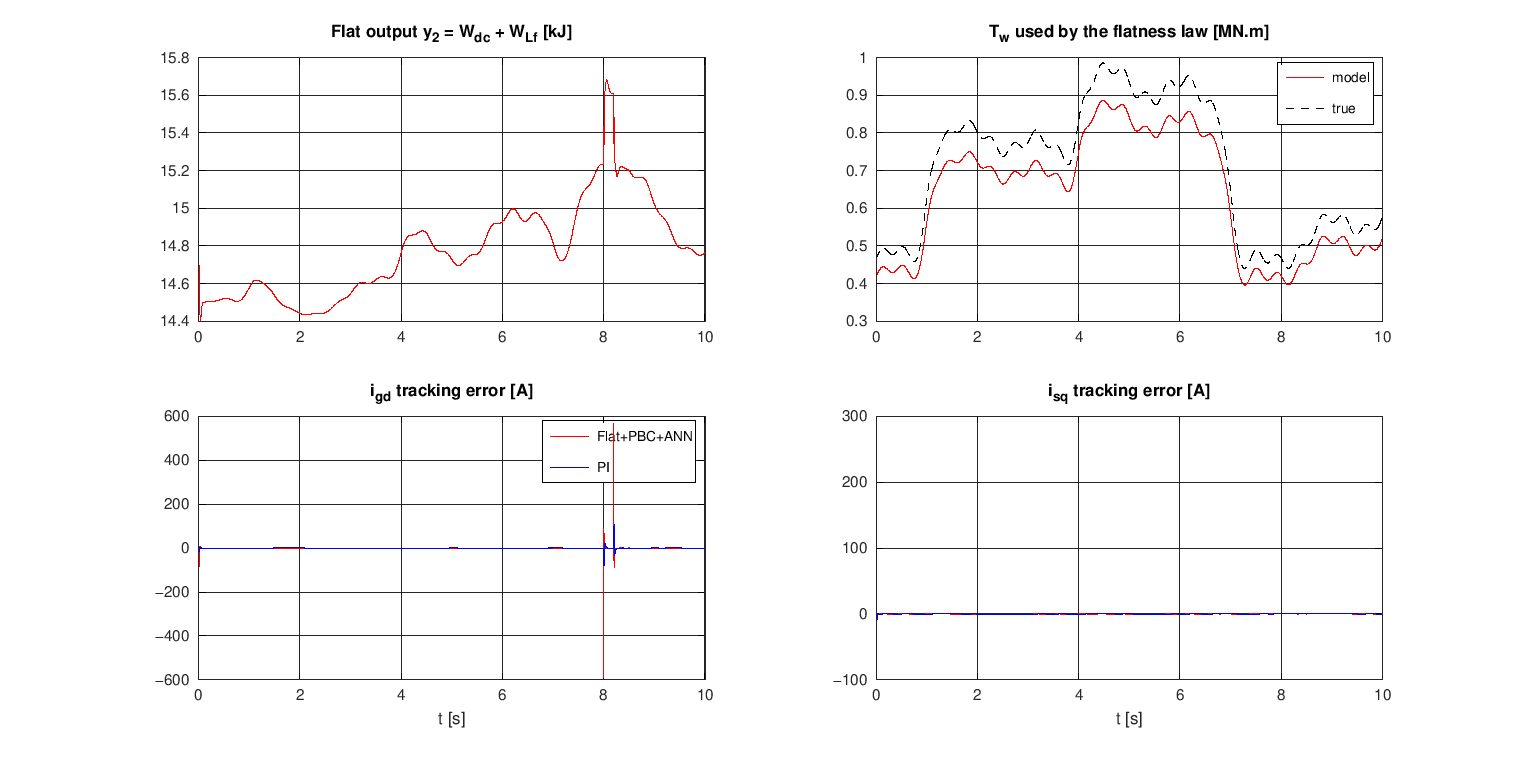
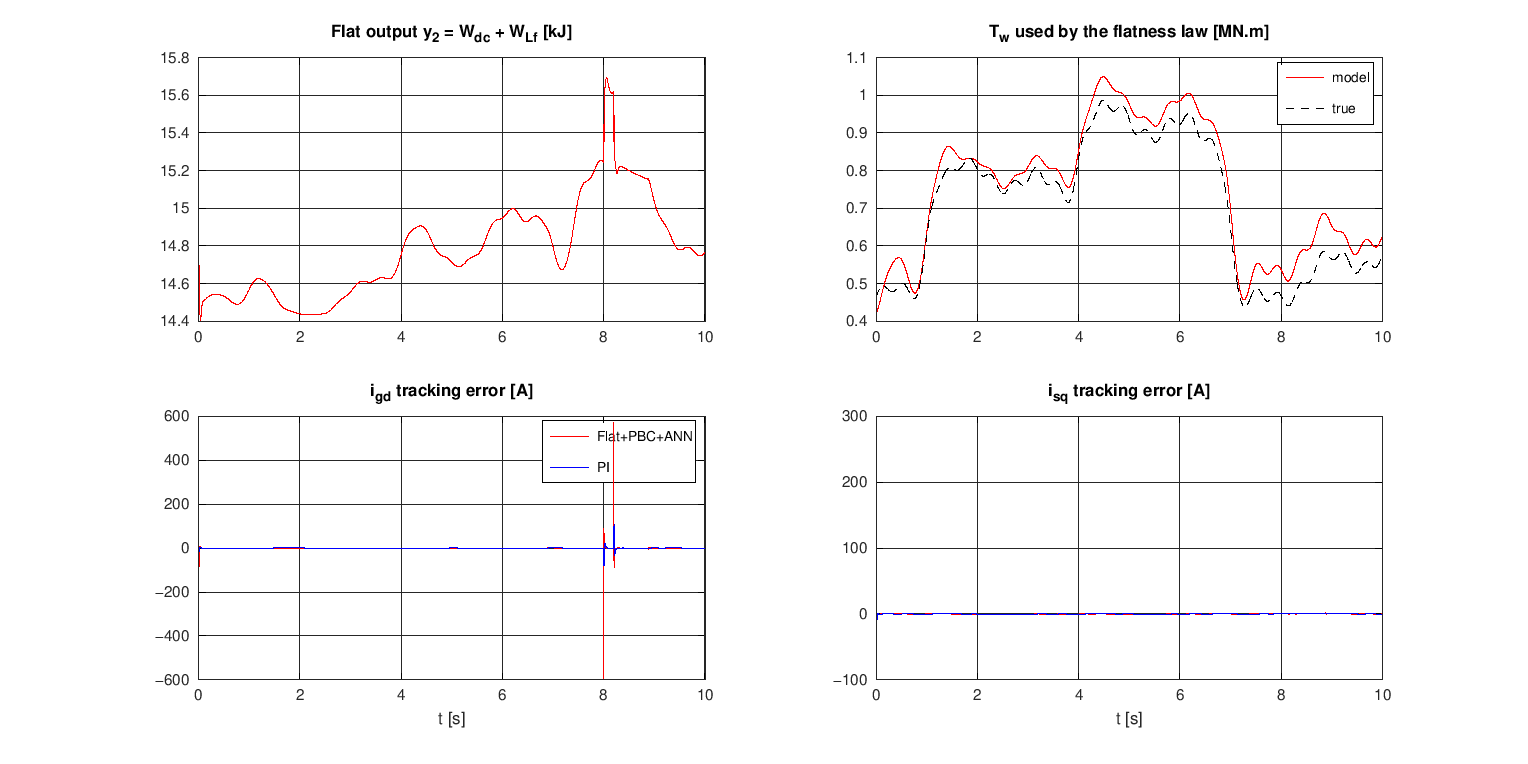
Add fair baselines (PI+FF, flatness+PBC without ANN) and RBF compensation of the Cp model error
- ctrl_pi: 'PIFF' variant with P_msc feed-forward in the DC-bus loop
- ctrl_fpbc_ann: 'FPBC0' variant (ANN off); new RBF network learning the
  aerodynamic-model error online with a Lyapunov-based law
- ANN settings, grid-dip settings moved to pmsg_params
- main.m runs 4 controllers x 2 scenarios; docs and paper updated with results

Claude-Session: https://claude.ai/code/session_01JLQN8db6bxeaoqfycny3EU

diff --git a/matlab/ctrl_fpbc_ann.m b/matlab/ctrl_fpbc_ann.m
@@ -9,8 +9,10 @@ function [u, S, lg] = ctrl_fpbc_ann(m, S, P)
 %   the reference input is obtained by inversion + a tracking law on y.
 % Inner loops (PBC): L de/dt = -(R + Ra(t)) e + w L J e - Ki z, z = int(e),
 %   J skew-symmetric -> V = 0.5 e'Le + 0.5 Ki z'z, dV/dt = -(R+Ra)|e|^2.
-% ANN: tunes only the proportional/damping gains, kept in [gmin, gmax] > 0,
+% ANN 1: tunes the proportional/damping gains, kept in [gmin, gmax] > 0,
 %   so the storage-function argument above holds for any tuned value.
+% ANN 2: RBF approximation of the aerodynamic-model error (Cp(lambda) is
+%   never known exactly), trained online with a Lyapunov-based law.
 Ts = P.Ts;
 [wr, dwr, S] = mppt_ref(m.vw, S, P);
 we = P.p*m.w;
@@ -20,21 +22,30 @@ Jm = [0 1; -1 0];
 % J dOmega/dt = Tw - Te - B Omega  =>  Te = Tw - B Omega - J*nu1
 % nu1 = dOmega*/dt + k11 (Omega* - Omega) + k12 int(Omega* - Omega)
 ew  = wr - m.w;
-enw = ew/(0.02*P.wn);
+enw = ew/(S.nw*P.wn);
 [gw, S.nn_w] = rbf_gain(S.nn_w, enw, (enw - S.en_w)/Ts*0.5, Ts);  S.en_w = enw;
 lam = m.w*P.R/max(m.vw, 0.1);                       % aerodynamic torque
 Twh = P.kTw*0.5*P.rho*pi*P.R^2*aero_cp(lam, P.beta)*m.vw^3/max(m.w, 0.05);
+% RBF network learning the error of the aerodynamic model online:
+% Tw = Twh + Tn*W'phi(lambda, v) + eps. With V = 0.5 J e^2 + 0.5 J k12 z^2
+% + 0.5 W~'W~/gamma, the law dW/dt = -gamma*phi*e (e = Omega* - Omega)
+% cancels the cross term -> dV/dt = -J k11 e^2 (+ sigma-modification).
+phi = exp(-sum((S.Ctw - [lam/P.lopt; m.vw/11]*ones(1, size(S.Ctw, 2))).^2, 1)'/(2*0.15^2));
+Dh  = P.Tn*(S.Wtw'*phi);
 nu1 = dwr + gw*S.k11*ew + S.k12*S.zw;
-Te  = Twh - P.B*m.w - P.J*nu1;
+Te  = Twh + Dh - P.B*m.w - P.J*nu1;
 Tes = clamp(Te, P.Te_min, P.Te_max);
-if Te == Tes || sign(-ew) ~= sign(Te - Tes), S.zw = S.zw + Ts*ew; end  % anti-windup
+if Te == Tes || sign(-ew) ~= sign(Te - Tes)          % anti-windup
+  S.zw  = S.zw + Ts*ew;
+  S.Wtw = S.Wtw + Ts*(-S.gtw*phi*ew/(0.01*P.wn) - S.stw*S.Wtw);
+end
 
 %% Machine-side current loop - passivity-based (rectifier MLI)
 isr  = [0; clamp(Tes/(1.5*P.p*P.psi), -P.Imax_s, P.Imax_s)];
 disr = (isr - S.is_f)/S.tau_d;  S.is_f = S.is_f + Ts*disr;
 is  = [m.isd; m.isq];
 es  = is - isr;
-en  = norm(es)/(0.05*S.Ibs);
+en  = norm(es)/(S.ni*S.Ibs);
 [gs, S.nn_s] = rbf_gain(S.nn_s, en, (en - S.en_s)/Ts*2e-3, Ts);  S.en_s = en;
 vs  = -P.Ls*disr - P.Rs*isr + we*P.Ls*Jm*isr + [0; we*P.psi] ...
       + gs*S.Ra0*es + S.Kis*S.zs;
@@ -48,7 +59,7 @@ ig   = [m.igd; m.igq];
 y2   = 0.5*P.C*m.Vdc^2 + 0.75*P.Lf*(ig'*ig);
 y2r  = 0.5*P.C*P.Vdc_ref^2 + 0.75*P.Lf*(S.ig_f'*S.ig_f);  % y2 at Vdc = Vdc*
 ey   = y2r - y2;
-env  = (P.Vdc_ref - m.Vdc)/(0.01*P.Vdc_ref);
+env  = (P.Vdc_ref - m.Vdc)/(S.nv*P.Vdc_ref);
 [gv, S.nn_v] = rbf_gain(S.nn_v, env, (env - S.en_v)/Ts*0.02, Ts);  S.en_v = env;
 nu2  = gv*S.k21*ey + S.k22*S.zv;          % dy2*/dt ~ 0 (slow i_g*)
 Pgr  = Pmsc - 1.5*P.Rf*(ig'*ig) - nu2;
@@ -60,7 +71,7 @@ if igd == igdl, S.zv = S.zv + Ts*ey; end
 igr  = [igdl; -2*P.Qref/(3*m.vg(1))];
 digr = (igr - S.ig_f)/S.tau_d;  S.ig_f = S.ig_f + Ts*digr;
 eg  = ig - igr;
-en  = norm(eg)/(0.05*S.Ibg);
+en  = norm(eg)/(S.ni*S.Ibg);
 [gg, S.nn_g] = rbf_gain(S.nn_g, en, (en - S.en_g)/Ts*2e-3, Ts);  S.en_g = en;
 vi  = P.Lf*digr + P.Rf*igr - P.wg*P.Lf*Jm*igr + m.vg ...
       - gg*S.Rb0*eg - S.Kig*S.zg;
@@ -68,5 +79,5 @@ vil = sat_vec(vi, m.Vdc/sqrt(3));
 if norm(vi - vil) < 1e-9, S.zg = S.zg + Ts*eg; end
 
 u = [vsl; vil];  S.u = u;
-lg = [wr, isr', igr', y2, Twh, NaN, NaN, gs, gg, gw, gv];
+lg = [wr, isr', igr', y2, Twh + Dh, NaN, NaN, gs, gg, gw, gv];
 end

diff --git a/matlab/ctrl_init.m b/matlab/ctrl_init.m
@@ -1,8 +1,10 @@
 function S = ctrl_init(P, type, x0, vw0, u0)
 %CTRL_INIT  Controller gains and internal states.
-%   type = 'PI'  : classical vector control (cascaded PI loops)
+%   type = 'PI'   : classical vector control (cascaded PI loops)
+%   type = 'PIFF' : same + feed-forward of P_msc in the DC-bus loop
 %   type = 'FPBC': flatness (outer) + passivity-based (inner) control
 %                  with ANN online gain tuning
+%   type = 'FPBC0': same as FPBC with the ANN disabled (fixed gains)
 S.type = type;
 S.u    = u0;                                  % last applied voltages
 % common MPPT reference generator
@@ -19,8 +21,9 @@ wnv = 60; zv = 1;            % DC-bus loop natural freq / damping
 
 Tw0 = 1.5*P.p*P.psi*x0(2) + P.B*x0(3);
 
+S.ff = strcmp(type, 'PIFF');
 switch type
-  case 'PI'
+  case {'PI', 'PIFF'}
     % current loops: Kp = L/tau, Ki = L/(4 tau^2) -> double pole 1/(2 tau)
     S.Kps = P.Ls/tau_i;  S.Kis = P.Ls/(4*tau_i^2);
     S.Kpg = P.Lf/tau_i;  S.Kig = P.Lf/(4*tau_i^2);
@@ -30,9 +33,9 @@ switch type
     S.Kpv = 2*zv*wnv*P.C*P.Vdc_ref/(1.5*P.Vgm);
     S.Kiv = wnv^2   *P.C*P.Vdc_ref/(1.5*P.Vgm);
     % integrator states (stored as integral-term values)
-    S.Iw = Tw0;  S.Iv = x0(5);  S.Is = [0; 0];  S.Ig = [0; 0];
+    S.Iw = Tw0;  S.Iv = x0(5)*(~S.ff);  S.Is = [0; 0];  S.Ig = [0; 0];
 
-  case 'FPBC'
+  case {'FPBC', 'FPBC0'}
     % outer loops (flatness): e_dot + k1 e + k2 int(e) = 0  (same poles as PI)
     S.k11 = 2*zw*wnw;  S.k12 = wnw^2;      % speed   (flat output Omega)
     S.k21 = 2*zv*wnv;  S.k22 = wnv^2;      % DC bus  (flat output energy y2)
@@ -44,11 +47,22 @@ switch type
     S.tau_d = 2e-3;
     S.is_f = [0; x0(2)];  S.ig_f = [x0(5); 0];
     S.en_s = 0; S.en_g = 0; S.en_w = 0; S.en_v = 0;   % ANN de/dt
-    % ANN gain tuners: (gmin, gmax, learning rate, leakage)
-    S.nn_s = rbf_init(0.5, 3, 100, 5);
-    S.nn_g = rbf_init(0.5, 3, 100, 5);
-    S.nn_w = rbf_init(0.5, 3, 20, 1);
-    S.nn_v = rbf_init(0.5, 3, 50, 3);
+    % ANN gain tuners: error normalisation (fraction of rated value at
+    % which the normalised error is 1), then (gmin, gmax, learning rate, leakage)
+    A = P.ann;
+    S.ni = A.ni;  S.nw = A.nw;  S.nv = A.nv;
+    S.nn_s = rbf_init(0.5, A.gmax, A.eta_i, A.sig_i);
+    S.nn_g = rbf_init(0.5, A.gmax, A.eta_i, A.sig_i);
+    S.nn_w = rbf_init(0.5, A.gmax, A.eta_w, A.sig_w);
+    S.nn_v = rbf_init(0.5, A.gmax, A.eta_v, A.sig_v);
+    % ANN 2: RBF approximation of the aerodynamic torque model error
+    [c1, c2] = meshgrid(linspace(0.6, 1.4, 5), linspace(0.5, 1.1, 5));
+    S.Ctw = [c1(:)'; c2(:)'];  S.Wtw = zeros(25, 1);
+    S.gtw = A.eta_tw;  S.stw = A.sig_tw;
+    if strcmp(type, 'FPBC0')
+      S.gtw = 0;
+      S.nn_s.off = true; S.nn_g.off = true; S.nn_w.off = true; S.nn_v.off = true;
+    end
   otherwise
     error('unknown controller type');
 end

diff --git a/paper/main.tex b/paper/main.tex
@@ -23,11 +23,13 @@ the filter as flat outputs. The inner current loops of both converters use
 passivity-based control (PBC), which preserves the workless (skew-symmetric)
 coupling of the machine and filter models and injects damping. The
 proportional and damping gains of every loop are tuned online by
-radial-basis-function neural networks. Because the closed-loop storage
-functions decrease for any bounded positive gain, the neural tuner improves
-transients without affecting stability. Average and switched (5~kHz SVPWM)
+radial-basis-function neural networks, and a second RBF network learns the
+error of the aerodynamic model used by the flatness law. Because the
+closed-loop storage functions decrease for any bounded positive gain, the
+neural tuning does not affect stability. Average and switched (5~kHz SVPWM)
 simulations under wind variations, parameter mismatch and a 20\% grid voltage
-dip are compared with conventional PI vector control.
+dip are compared with PI vector control with and without power feed-forward,
+and with the proposed scheme without neural networks.
 \end{abstract}
 
 \begin{IEEEkeywords}
@@ -92,6 +94,12 @@ $\dot{\mathbf z}_s=\mathbf e_s$: $\dot H=-(R_s+R_a(t))\|\mathbf e_s\|^2\le0$ for
 $K(t)=g(t)K_0$, $g=g_{min}+(g_{max}-g_{min})\,\mathrm{sig}(\mathbf w^T\boldsymbol\phi(e_n,\dot e_n))$,
 $\dot{\mathbf w}=\eta e_n^2\,\partial g/\partial\mathbf w-\sigma\mathbf w$, applied to
 $R_a, R_b, k_{11}, k_{21}$.
+\subsection{Online RBF compensation of the aerodynamic model error}
+Since $C_p(\lambda)$ is never known exactly, $T_w=\hat T_w+T_n\mathbf W^{*T}\boldsymbol\phi(\lambda,v)+\varepsilon$
+and the speed law uses $\hat T_w+T_n\hat{\mathbf W}^T\boldsymbol\phi$ with
+$\dot{\hat{\mathbf W}}=-\gamma\boldsymbol\phi e_\Omega-\sigma\hat{\mathbf W}$. With
+$V=\tfrac12Je_\Omega^2+\tfrac12Jk_{12}z^2+\tilde{\mathbf W}^T\tilde{\mathbf W}/(2\gamma)$ the cross term cancels and
+$\dot V=-Jk_{11}e_\Omega^2$ up to $\varepsilon$ and the leakage term.
 
 \section{Simulation Results}
 % Table I: system parameters (docs/modelisation_commande.md, Sec. 1)

diff --git a/matlab/main.m b/matlab/main.m
@@ -6,10 +6,15 @@ P = pmsg_params();
 outdir = fullfile('..', 'results');
 if ~exist(outdir, 'dir'), mkdir(outdir); end
 
-ctrls = {'PI', 'FPBC'};  scen = {'nominal', 'robust'};
+% PI    : classical vector control
+% PIFF  : PI + feed-forward of P_msc in the DC-bus loop (fair baseline)
+% FPBC0 : flatness + PBC, ANN disabled (shows the contribution of the ANN)
+% FPBC  : flatness + PBC + ANN (proposed)
+ctrls = {'PI', 'PIFF', 'FPBC0', 'FPBC'};  scen = {'nominal', 'robust'};
+if ~isempty(getenv('MAIN_SCEN')), scen = {getenv('MAIN_SCEN')}; end
 R = struct();
-for s = 1:2
-  for c = 1:2
+for s = 1:numel(scen)
+  for c = 1:numel(ctrls)
     fprintf('Simulating %-5s / %-8s ...\n', ctrls{c}, scen{s});
     tic; R.(scen{s}).(ctrls{c}) = simulate(P, ctrls{c}, scen{s}); toc;
   end
@@ -18,8 +23,8 @@ end
 fprintf('\n(current errors in A: [t<1 s] / [t>=1 s])\n');
 fprintf('%-9s %-5s %8s %10s %9s %17s %17s %7s %8s\n', 'scenario', 'ctrl', ...
   'IAE_w', 'ISE_Vdc', 'max|dV|', 'rms e_s', 'rms e_g', 'Cp', 'E[kWh]');
-for s = 1:2
-  for c = 1:2
+for s = 1:numel(scen)
+  for c = 1:numel(ctrls)
     M = metrics(R.(scen{s}).(ctrls{c}));
     fprintf('%-9s %-5s %8.4f %10.2f %9.2f %8.2f/%8.2f %8.2f/%8.2f %7.4f %8.3f\n', ...
       scen{s}, ctrls{c}, M.IAE_w, M.ISE_Vdc, M.max_dVdc, M.rms_es0, M.rms_es, ...
@@ -27,7 +32,8 @@ for s = 1:2
   end
 end
 
-for s = 1:2
+for s = 1:numel(scen)
   plot_results(R.(scen{s}).PI, R.(scen{s}).FPBC, outdir, scen{s});
+  Rs = R.(scen{s});
+  save(fullfile(outdir, ['results_' scen{s} '.mat']), 'Rs', '-v7');
 end
-save(fullfile(outdir, 'results.mat'), 'R', '-v7');

diff --git a/matlab/simulate.m b/matlab/simulate.m
@@ -1,18 +1,18 @@
 function out = simulate(P, ctrlType, scenario)
 %SIMULATE  Closed-loop simulation of the complete PMSG wind chain.
-%   ctrlType: 'PI' | 'FPBC'
+%   ctrlType: 'PI' | 'PIFF' | 'FPBC0' | 'FPBC'
 %   scenario: 'nominal' | 'robust' (plant parameters differ from the values
 %             known by the controller, 10 % error on the Cp model,
-%             + 20 % grid voltage dip at t = 8 s)
+%             + grid voltage dip (P.ksag at P.tsag, default 20 % at 8 s))
 Pp = plant_true(P, scenario);
 if strcmp(scenario, 'robust'), P.kTw = 0.9; end   % 10 % error on the Cp model
-vgfun = @(t) P.Vgm*[1 - 0.2*(strcmp(scenario,'robust') && t >= 8 && t < 8.2); 0];
+vgfun = @(t) P.Vgm*[1 - P.ksag*(strcmp(scenario,'robust') && t >= P.tsag && t < P.tsag + P.dsag); 0];
 
 vw0 = wind_speed(0);
 [x, u] = init_state(P, Pp, vw0);       % steady-state MPPT operating point
 
 S = ctrl_init(P, ctrlType, x, vw0, u);
-if strcmp(ctrlType, 'PI'), ctrl = @ctrl_pi; else, ctrl = @ctrl_fpbc_ann; end
+if strncmp(ctrlType, 'PI', 2), ctrl = @ctrl_pi; else, ctrl = @ctrl_fpbc_ann; end
 
 N    = round(P.Tend/P.Ts);
 dec  = 10;                                  % logging decimation

diff --git a/matlab/ctrl_pi.m b/matlab/ctrl_pi.m
@@ -1,6 +1,7 @@
 function [u, S, lg] = ctrl_pi(m, S, P)
 %CTRL_PI  Classical vector control: PI speed loop + PI current loops
 %(MSC), PI DC-bus loop + PI current loops (GSC), with dq decoupling.
+%Type 'PIFF' adds the feed-forward of P_msc in the DC-bus loop.
 Ts = P.Ts;
 [wr, ~, S] = mppt_ref(m.vw, S, P);
 we = P.p*m.w;
@@ -21,8 +22,11 @@ if norm(vs - vsl) < 1e-9, S.Is = S.Is + Ts*S.Kis*es; end
 
 %% DC bus + grid side
 ev  = m.Vdc - P.Vdc_ref;
-igr = [clamp(S.Kpv*ev + S.Iv, -P.Imax_g, P.Imax_g); -2*P.Qref/(3*m.vg(1))];
-if abs(S.Kpv*ev + S.Iv) < P.Imax_g, S.Iv = S.Iv + Ts*S.Kiv*ev; end
+iff = 0;
+if S.ff, iff = (S.u(1)*m.isd + S.u(2)*m.isq)/m.vg(1); end   % P_msc/(1.5 v_gd)
+igd = S.Kpv*ev + S.Iv + iff;
+igr = [clamp(igd, -P.Imax_g, P.Imax_g); -2*P.Qref/(3*m.vg(1))];
+if abs(igd) < P.Imax_g, S.Iv = S.Iv + Ts*S.Kiv*ev; end
 ig  = [m.igd; m.igq];
 eg  = ig - igr;
 vi  = m.vg - P.wg*P.Lf*[ig(2); -ig(1)] - S.Kpg*eg - S.Ig;

diff --git a/matlab/pmsg_params.m b/matlab/pmsg_params.m
@@ -45,6 +45,17 @@ P.Imax_g = 1.3 * P.Pn/(1.5*P.Vgm);       % GSC current limit (peak) [A]
 P.Te_min = 0;                            % no motoring for MPPT
 P.Te_max =  1.2*P.Tn;
 
+%% ANN (RBF) online gain tuning
+P.ann.ni = 0.05;  P.ann.nw = 0.02;  P.ann.nv = 0.01;   % error normalisation
+P.ann.gmax  = 3;                                       % max gain multiplier
+P.ann.eta_i = 100; P.ann.sig_i = 5;                    % current loops
+P.ann.eta_w = 20;  P.ann.sig_w = 1;                    % speed loop
+P.ann.eta_v = 50;  P.ann.sig_v = 3;                    % DC-bus loop
+P.ann.eta_tw = 2;  P.ann.sig_tw = 0.01;                % Tw-model error network
+
+%% Grid voltage dip (robust scenario)
+P.tsag = 8;  P.dsag = 0.2;  P.ksag = 0.2;   % start [s], duration [s], depth [pu]
+
 %% Simulation
 P.Ts     = 1e-4;           % control sample time = integration step [s]
 P.Tend   = 10;             % [s]

diff --git a/matlab/rbf_gain.m b/matlab/rbf_gain.m
@@ -5,6 +5,7 @@ function [g, net] = rbf_gain(net, en, den, Ts)
 % large; the sigma-modification leakage brings it back to nominal (g = 1)
 % in steady state and keeps the weights bounded. g stays in [gmin, gmax]
 % (> 0), so the Lyapunov proofs of the passivity-based loops still hold.
+if net.off, g = 1; return; end
 x   = [clamp(en, -1.5, 1.5); clamp(den, -1.5, 1.5)];
 d2  = sum((net.C - x*ones(1, size(net.C, 2))).^2, 1);
 phi = exp(-d2' / (2*net.width^2));

diff --git a/matlab/simulate_mli.m b/matlab/simulate_mli.m
@@ -13,7 +13,7 @@ h   = P.hsw;  nsub = round(Tc/h);
 vwf = @(t) 10 + 0.5*(1 + tanh((t - 0.45)/0.05));
 [x, u] = init_state(P, Pp, vwf(0));
 S   = ctrl_init(Pc, ctrlType, x, vwf(0), u);
-if strcmp(ctrlType, 'PI'), ctrl = @ctrl_pi; else, ctrl = @ctrl_fpbc_ann; end
+if strncmp(ctrlType, 'PI', 2), ctrl = @ctrl_pi; else, ctrl = @ctrl_fpbc_ann; end
 
 N    = round(Tend/h);
 dec  = 5;  nlog = floor(N/dec);

diff --git a/matlab/rbf_init.m b/matlab/rbf_init.m
@@ -11,4 +11,5 @@ net.gmax  = gmax;
 net.b0    = log((1 - gmin)/(gmax - 1));% g = 1 when w = 0
 net.eta   = eta;                       % learning rate
 net.sigma = sigma;                     % leakage (sigma-modification)
+net.off   = false;                     % true -> fixed gain g = 1 (no ANN)
 end

diff --git a/docs/modelisation_commande.md b/docs/modelisation_commande.md
@@ -123,23 +123,34 @@ Fonction de stockage : H = ½ e_sᵀ L_s e_s + ½ K_i z_sᵀ z_s
 ⇒ **dH/dt = −(R_s + R_a(t)) ‖e_s‖² ≤ 0**  (car e_sᵀ𝐉e_s = 0). Même résultat pour l'onduleur.
 
 ### 3.4 ANN pour régler les paramètres en ligne
-* Un réseau RBF par boucle.
-* Entrées : erreur normalisée e_n et sa dérivée. 9 neurones gaussiens. Sortie sigmoïde → g ∈ [0,5 ; 3].
-* Gains réglés : R_a = g_s R_a0, R_b = g_g R_b0, k₁₁ = g_Ω k₁₁⁰, k₂₁ = g_v k₂₁⁰.
-* Apprentissage en ligne : critère E = ½ e_n². Comme ∂E/∂K ≈ −e² T_s/L < 0, la mise à jour est
-  ẇ = η e_n² ∂g/∂w − σ w. Le gain augmente pendant les transitoires et revient au nominal en régime établi
-  (σ-modification, poids bornés).
-* **Argument de stabilité** : l'ANN ne modifie que les gains proportionnels / d'amortissement.
-  * Pour les boucles de courant, dH/dt = −(R + R_a(t))‖e‖² ≤ 0 pour **tout** R_a(t) > 0.
-  * Pour les boucles plates, V = ½e² + ½k₂ z² donne dV/dt = −k₁(t) e² ≤ 0.
-  * Donc l'ANN améliore les transitoires sans casser la stabilité, puisque g est borné et positif.
+Deux réseaux RBF, avec deux rôles :
 
-### 3.5 Commande de référence (comparaison)
-Commande vectorielle classique à PI (vitesse, courants MSC/GSC avec découplage, bus DC). Elle est réglée sur les mêmes
-pôles nominaux (courants τ = 2 ms, vitesse ω_n = 2 rad/s, ζ = 0,9, bus DC ω_n = 60 rad/s).
+**ANN 1 — réglage des gains.** Un RBF par boucle règle les gains proportionnels / d'amortissement.
+* Gains réglés : R_a = g_s R_a0, R_b = g_g R_b0, k₁₁ = g_Ω k₁₁⁰, k₂₁ = g_v k₂₁⁰.
+* Entrées : erreur normalisée e_n et sa dérivée. 9 neurones. Sortie sigmoïde → g ∈ [0,5 ; 3].
+* Apprentissage : ẇ = η e_n² ∂g/∂w − σ w, car ∂E/∂K ≈ −e² T_s/L < 0. Le gain monte pendant les transitoires
+  puis revient au nominal.
+* Stabilité : dH/dt = −(R + R_a(t))‖e‖² ≤ 0 pour tout R_a(t) > 0. Même chose pour les boucles plates
+  (dV/dt = −k₁(t)e²).
+
+**ANN 2 — correction du modèle aérodynamique.** La platitude est basée sur le modèle, et C_p(λ) n'est jamais connu
+exactement.
+* Un RBF (25 neurones sur (λ/λ_opt, v/11)) apprend l'erreur : T_w = T̂_w,modèle + T_n Ŵᵀφ(λ, v) + ε.
+* Loi d'apprentissage de Lyapunov : dŴ/dt = −γ φ e_Ω − σŴ, avec e_Ω = Ω* − Ω.
+* Avec V = ½J e² + ½J k₁₂ z² + W̃ᵀW̃/(2γ), le terme croisé s'annule : dV/dt = −J k₁₁ e² (à ε et σ près).
+
+### 3.5 Commandes de comparaison
+Toutes sont réglées sur les mêmes pôles nominaux (courants τ = 2 ms, vitesse ω_n = 2 rad/s, ζ = 0,9, bus DC ω_n = 60 rad/s).
+
+| Nom | Description | Rôle dans l'article |
+|---|---|---|
+| PI | commande vectorielle classique (PI vitesse, PI bus DC, PI courants + découplage) | référence |
+| PI+FF | PI + anticipation de P_msc dans la boucle bus DC | référence **équitable** (même information que la platitude) |
+| Plate+PBC | commande proposée **sans ANN** (gains fixes) | montre l'apport de l'ANN |
+| Plate+PBC+ANN | commande proposée complète | — |
 
 ## 4. Simulation (`matlab/`)
-* `main.m` — **modèle moyen**, 10 s, 4 cas : PI / Plate+PBC+ANN × nominal / robustesse.
+* `main.m` — **modèle moyen**, 10 s, 4 commandes (PI, PI+FF, Plate+PBC, Plate+PBC+ANN) × 2 scénarios (nominal / robustesse).
   * Scénario **nominal** : vent 8 → 10 → 11 → 9 m/s + turbulence.
   * Scénario **robustesse** : la machine réelle a R_s ×1,5, L_s ×1,2, ψ_f ×0,92, et le filtre R_f ×1,5, L_f ×1,25.
     Les contrôleurs ne connaissent que les valeurs nominales. Le modèle C_p utilisé par la platitude a 10 % d'erreur.
@@ -166,30 +177,38 @@ Erreurs de courant RMS en A : [t < 1 s] / [t ≥ 1 s].
 | Scénario | Commande | IAE Ω | ISE V_dc | max abs(ΔV_dc) [V] | RMS e_s [A] | RMS e_g [A] | C_p moyen | Énergie [kWh] |
 |---|---|---|---|---|---|---|---|---|
 | nominal | PI | 0,0905 | 421,6 | 13,3 | 0,23 / 0,06 | 1,20 / 0,12 | 0,4652 | 3,503 |
+| nominal | PI+FF | 0,0905 | 0,11 | 1,7 | 0,23 / 0,06 | 1,26 / 0,12 | 0,4652 | 3,503 |
+| nominal | Plate+PBC | 0,0000 | 0,04 | 0,2 | 0,04 / 0,00 | 0,14 / 0,00 | 0,4654 | 3,484 |
 | nominal | Plate+PBC+ANN | 0,0000 | 0,04 | 0,2 | 0,04 / 0,00 | 0,14 / 0,00 | 0,4654 | 3,484 |
 | robustesse | PI | 0,0976 | 1264,9 | 116,6 | 4,16 / 0,20 | 8,94 / 4,40 | 0,4652 | 3,479 |
-| robustesse | Plate+PBC+ANN | 0,0179 | 3,7 | 15,2 | 10,51 / 0,22 | 13,15 / 9,99 | 0,4656 | 3,466 |
+| robustesse | PI+FF | 0,0976 | 8,7 | 18,3 | 4,16 / 0,20 | 8,85 / 12,16 | 0,4652 | 3,479 |
+| robustesse | Plate+PBC | 0,0181 | 4,0 | 15,2 | 10,59 / 0,22 | 13,79 / 10,08 | 0,4656 | 3,466 |
+| robustesse | Plate+PBC+ANN | **0,0048** | **3,7** | 15,4 | 10,52 / 0,25 | 13,18 / 10,06 | 0,4654 | 3,463 |
 
 ### 6.2 Modèle commuté MLI (`main_mli.m`, f_sw = 5 kHz)
 | Commande | THD i_ga (régime établi) |
 |---|---|
 | PI | 0,31 % |
-| Plate+PBC+ANN | 0,56 % |
+| Plate+PBC+ANN | 0,61 % |
 
 Les deux sont largement sous la limite de 5 % (IEEE 519).
 
 ### 6.3 Lecture (à garder honnête dans l'article)
-* **Bus DC** : c'est le gain principal. En nominal, l'écart max est de 0,2 V contre 13 V pour le PI.
-  Pendant le creux de tension, il est de 15 V contre 117 V. Ce gain vient de la loi plate en énergie, qui inverse
-  le modèle avec P_msc (anticipation). Un relecteur peut demander un PI avec la même anticipation.
-* **Vitesse / MPPT** : le suivi est quasi parfait en nominal, mais seulement parce que T_w est calculé avec le modèle
-  C_p exact et le vent mesuré. Avec 10 % d'erreur sur le modèle (scénario robustesse), l'IAE reste environ 5 fois
-  plus petit que celui du PI. Le C_p moyen est à peine meilleur. L'énergie injectée est légèrement plus faible
-  (≈ 0,5 %), parce que la loi plate stocke plus d'énergie cinétique dans le rotor pendant les rafales.
-* **Courants** : en robustesse, la PBC utilise les paramètres nominaux dans ses anticipations.
-  * Pendant la première seconde, ses erreurs sont plus grandes que celles du PI.
-  * Pendant le creux réseau, l'erreur sur i_g est plus grande, parce que i_gd* saute instantanément.
-  * En dehors de ces deux phases, elle est équivalente au PI.
-* **ANN** : les gains montent pendant les transitoires (démarrage, rafales, creux à 8 s) puis reviennent à 1.
-* **THD** : légèrement plus élevé qu'avec le PI. L'ondulation MLI de P_msc passe par l'anticipation de la boucle plate
-  (un filtre sur P_msc est une amélioration possible).
+* **Bus DC, face à un PI équitable (PI+FF)** : l'avantage est réel mais modéré.
+  * ISE V_dc : 3,7 contre 8,7 (÷ 2,3).
+  * Écart max pendant le creux : 15 V contre 18 V. En nominal : 0,2 V contre 1,7 V.
+  * Face au PI sans anticipation, l'écart est énorme (117 V), mais cette comparaison n'est pas équitable.
+* **Apport de l'ANN** :
+  * En nominal, il n'apporte rien : le modèle est exact.
+  * En robustesse (10 % d'erreur sur C_p), l'ANN 2 divise l'IAE de vitesse par 3,8 (0,0181 → 0,0048).
+    C'est la contribution principale de l'ANN.
+  * L'ANN 1 (gains) a un effet faible : les erreurs restent sous le seuil de normalisation. Il ne s'active que
+    pendant les grands transitoires.
+* **Vitesse / MPPT** : l'IAE est 20 fois plus petit que le PI (0,0048 contre 0,0976). Mais le C_p moyen est
+  quasiment identique, et l'énergie injectée est ≈ 0,5 % plus faible (le rotor stocke plus d'énergie cinétique
+  pendant les rafales). Il ne faut pas annoncer un gain d'énergie.
+* **Courants** : la PBC utilise les paramètres nominaux dans ses anticipations.
+  * Au démarrage avec désaccord paramétrique, ses erreurs sont plus grandes que celles du PI.
+  * Pendant le creux, l'erreur sur i_g est comparable à celle du PI+FF.
+  * Toutes ces erreurs restent < 0,5 % du courant nominal.
+* **THD** : 0,61 % contre 0,31 %. Plus élevé, mais négligeable.
